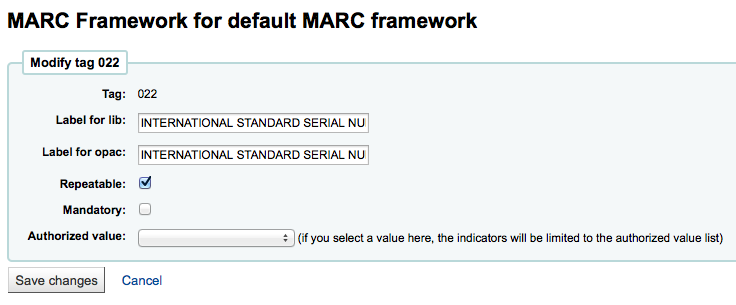
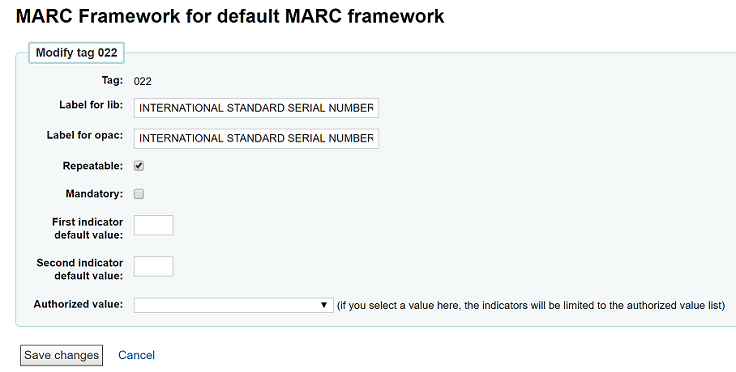
Revert "Update index.rst"
This reverts commit 92d837ce4d477b01943c0e445631a6c2fc03123b

Changed region(s): [[0.0, 0.0, 1.0, 1.0], [0.0625, 0.3541, 0.5312, 0.6492]]

diff --git a/source/administration.rst b/source/administration.rst
@@ -1875,6 +1875,8 @@ associated with the field
    -  If you check 'Mandatory' the record will not be allowed to save
       unless you have a value assigned to this tag
 
+   -  If you add default values for indicators these will be pre-filled to save time when cataloguing but can still be edited if required  
+   
    -  'Authorized value' is where you define an :ref:`authorized
       value <authorized-values-label>` that your catalogers can choose from
       a pull down to fill this field in
